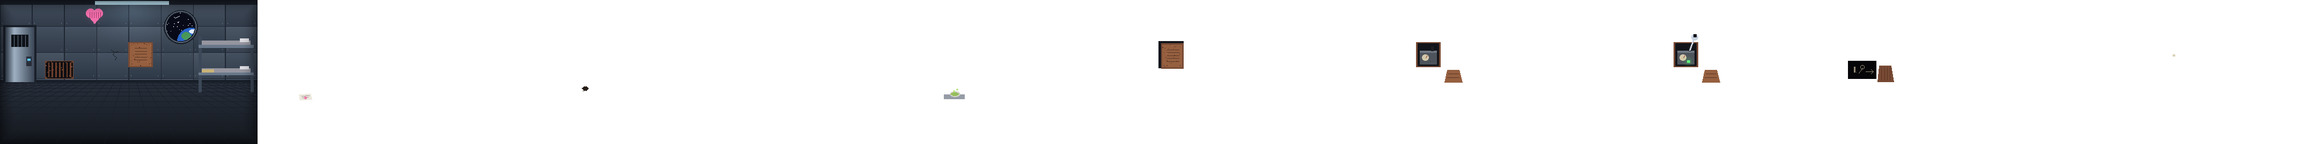
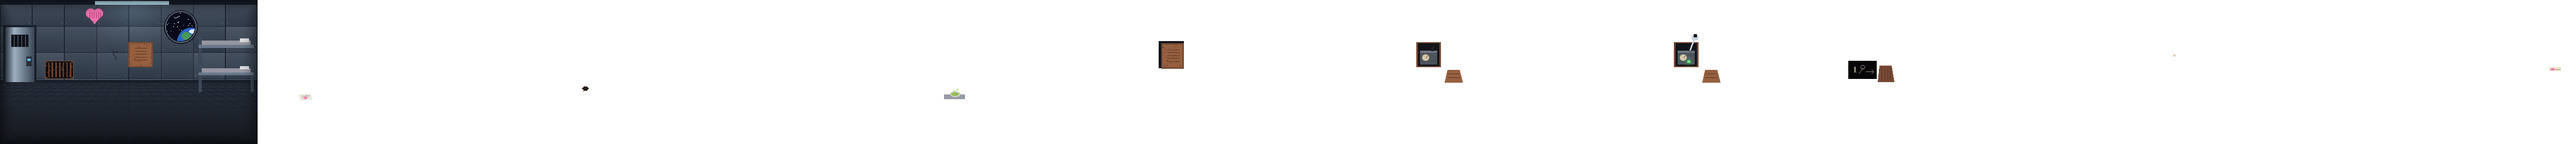
Cel·la: el fullet de reeducació surt en mirar la llitera i s'agafa ell, no la llitera

diff --git a/game/test/acte1.test.ts b/game/test/acte1.test.ts
@@ -176,7 +176,12 @@ describe('Ferro-9 · Acte 1', () => {
 
     // ── Vet: dibuixa el pany ──
     p.do('look', 'porta');
-    p.do('pickUp', 'llitera');
+    // El fullet no es veu fins que la Vet mira la llitera, i desapareix quan l'agafa.
+    expect(() => p.do('pickUp', 'fullet')).toThrow('no és visible');
+    p.do('look', 'llitera');
+    p.do('pickUp', 'fullet');
+    expect(p.inventory()).toContain('fullet_reeducacio');
+    expect(() => p.do('look', 'fullet')).toThrow('no és visible');
     p.use('llapis_ulls', { kind: 'item', id: 'fullet_reeducacio' });
     p.use('nota_pany', 'panell');
 

diff --git a/game/test/partida.ts b/game/test/partida.ts
@@ -78,7 +78,8 @@ export function jugarActe1(p: Jugador) {
   p.use('nota_iri', 'cambra');
   p.do('look', item('nota_iri'));
   p.do('look', 'porta');
-  p.do('pickUp', 'llitera');
+  p.do('look', 'llitera');
+  p.do('pickUp', 'fullet');
   p.use('llapis_ulls', item('fullet_reeducacio'));
   p.use('nota_pany', 'panell');
   p.do('look', item('nota_pany'));

diff --git a/adapters/benne/tools/room_designs.py b/adapters/benne/tools/room_designs.py
@@ -654,7 +654,6 @@ def cella_bg(c):
         c.rect(lx0, y, lx1, y + 3, STEEL[1])
         c.rect(lx0 + 4, y - 6, lx1 - 4, y - 1, mat)
         c.rect(lx1 - 18, y - 9, lx1 - 6, y - 5, (220, 220, 225))       # coixí
-    c.rect(lx0 + 4, 96, lx0 + 20, 99, (200, 180, 120))                # fullet sota el coixí... a sota
 
     cell_door(c, 8, 38, 46, 112)
     wall_vent(c, 62, 84, 100, 108, (120, 74, 52), (110, 64, 44), (90, 52, 36))   # reixa del conducte, rovellada
@@ -669,6 +668,13 @@ def cella_avis(c):
     c.line([(60, 132), (70, 131)], (160, 150, 150))
     c.line([(61, 134), (69, 133)], (160, 150, 150))
     c.ellipse(64, 133, 67, 136, (240, 120, 170))
+
+
+def cella_fullet(c):
+    """El fullet de reeducació, que treu el nas per sota el coixí de la llitera de baix."""
+    c.rect(316, 93, 331, 97, (236, 226, 196))
+    c.rect(318, 94, 322, 96, (240, 120, 170))                         # el cor de la MARE a la portada
+    c.line([(324, 95), (330, 95)], (150, 140, 130))
 
 
 def cella_escarabat(c):
@@ -753,6 +759,7 @@ CELLA = {
         'panell': {'rect': (176, 58, 208, 92), 'walk': (192, 126)},
         'altaveu': {'rect': (116, 10, 142, 32), 'walk': (130, 126)},
         'llitera': {'rect': (270, 46, 346, 126), 'walk': (262, 134)},
+        'fullet': {'rect': (312, 88, 334, 102), 'walk': (296, 138)},
         'finestreta': {'rect': (226, 16, 268, 58), 'walk': (240, 126)},
         'avis': {'rect': (54, 126, 76, 140), 'walk': (82, 140)},
         'escarabat': {'rect': (88, 114, 104, 128), 'walk': (110, 134)},
@@ -763,7 +770,7 @@ CELLA = {
     'spawns': {'vet': (150, 138), 'mos': (306, 140), 'mare': (130, 30), 'directora': (214, 138)},
     'walkable': [(14, 118), (266, 118), (268, 128), (338, 130), (346, 148), (6, 148)],
     'bg': amb(cella_bg, esquerda),
-    'props': {'avis': cella_avis, 'escarabat': cella_escarabat, 'safata': cella_safata,
+    'props': {'avis': cella_avis, 'fullet': cella_fullet, 'escarabat': cella_escarabat, 'safata': cella_safata,
               'panell_afluixat': cella_panell_afluixat, 'panell_obert': cella_panell_obert,
               'panell_reparat': cella_panell_reparat, 'reixa_oberta': cella_reixa_oberta, 'esquerda': nota_esquerda},
 }
